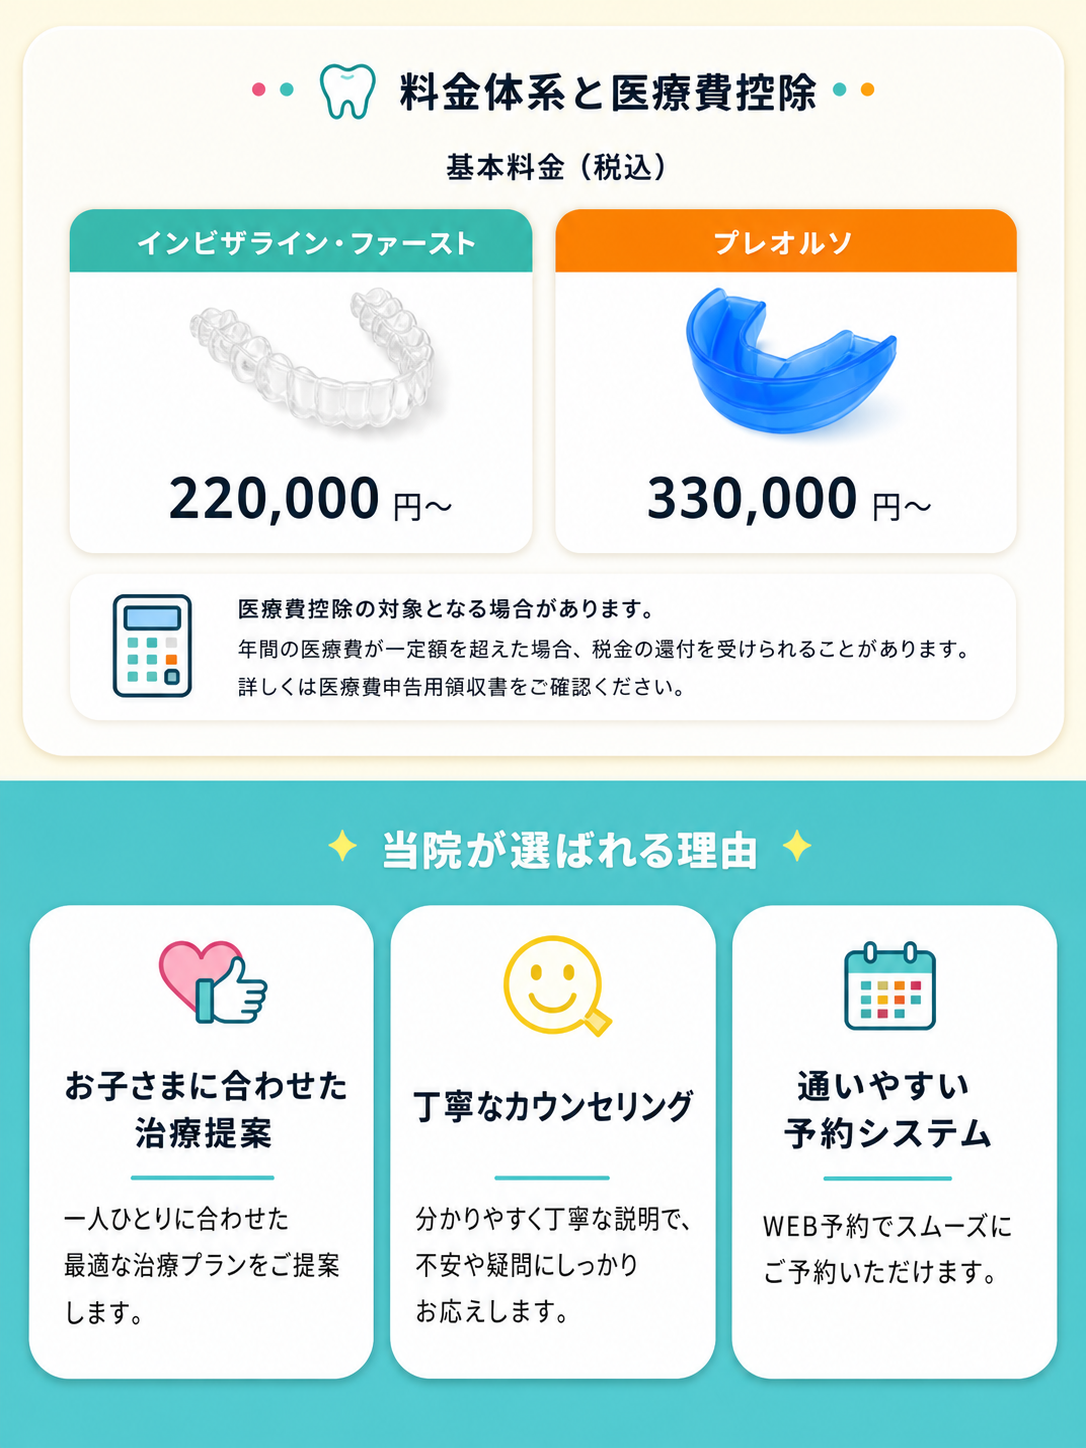
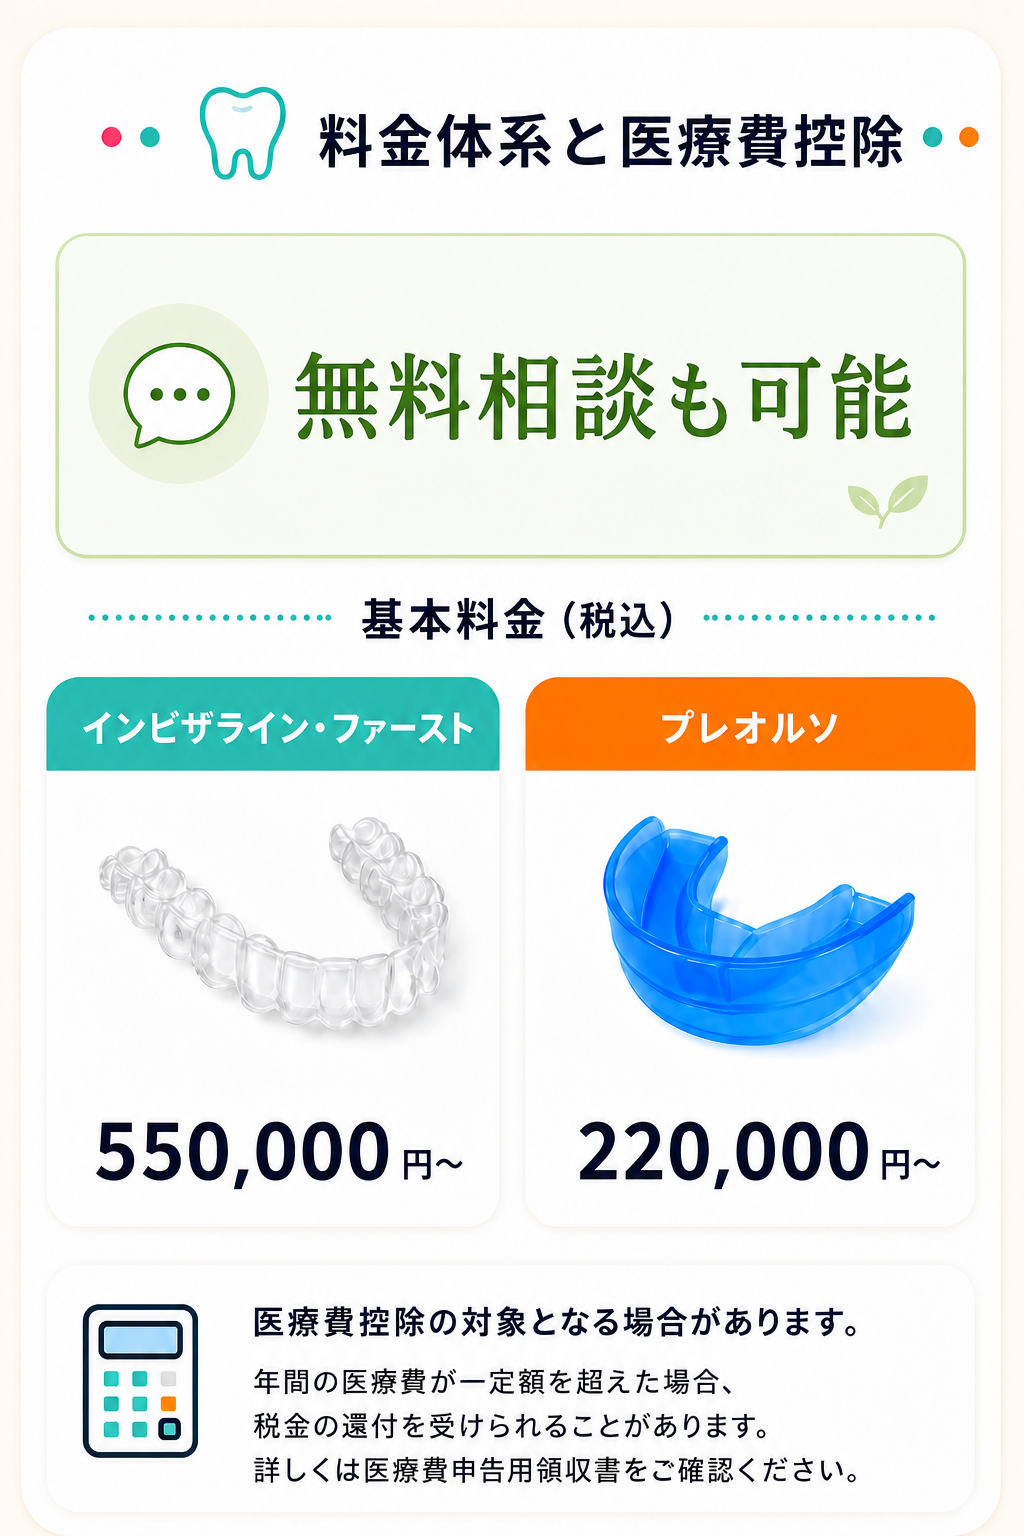
Replace price section image

diff --git a/index.html b/index.html
@@ -170,7 +170,7 @@
     </section>
 
     <section class="lp-section">
-      <img class="lp-image" src="assets/images/section-04-price.jpg" alt="料金体系と医療費控除を掲載しています。">
+      <img class="lp-image" src="assets/images/section-04-price.png" alt="料金体系と医療費控除を掲載しています。">
     </section>
 
     <section class="lp-section">